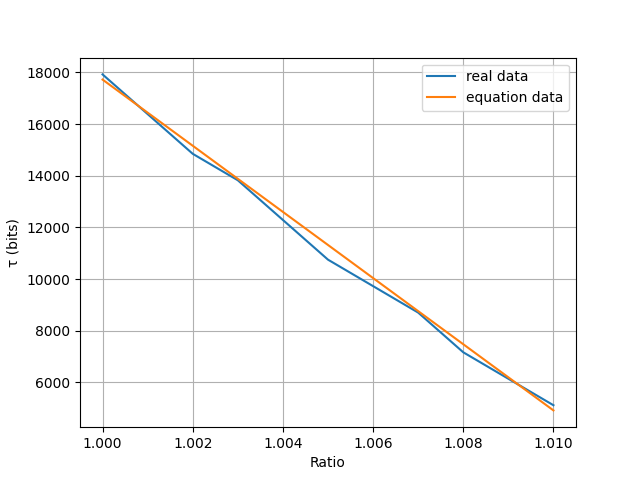
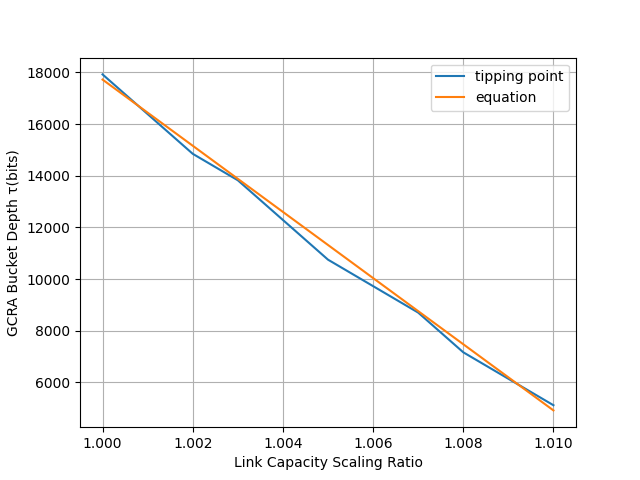
update a.png

diff --git a/Simulation/python/a.py b/Simulation/python/a.py
@@ -7,11 +7,11 @@ import sys
 x=[1+i*0.001 for i in range(11)]
 y = [17920,16384,14848,13824,12288,10752,9728,8704,7168,6144,5120]
 y_ = [-1280000*i+1297920-200 for i in x]
-plt.plot(x, y, linestyle='-', label='real data')
-plt.plot(x, y_, linestyle='-', label='equation data')
+plt.plot(x, y, linestyle='-', label='tipping point')
+plt.plot(x, y_, linestyle='-', label='equation')
 # plt.title('Packet Loss with different τ and ratio ({}) Non-compliant'.format(name), fontsize=12)
-plt.ylabel('τ (bits)')
-plt.xlabel('Ratio')
+plt.ylabel('GCRA Bucket Depth τ(bits)')
+plt.xlabel('Link Capacity Scaling Ratio')
 
 plt.legend()
 plt.grid(True)
